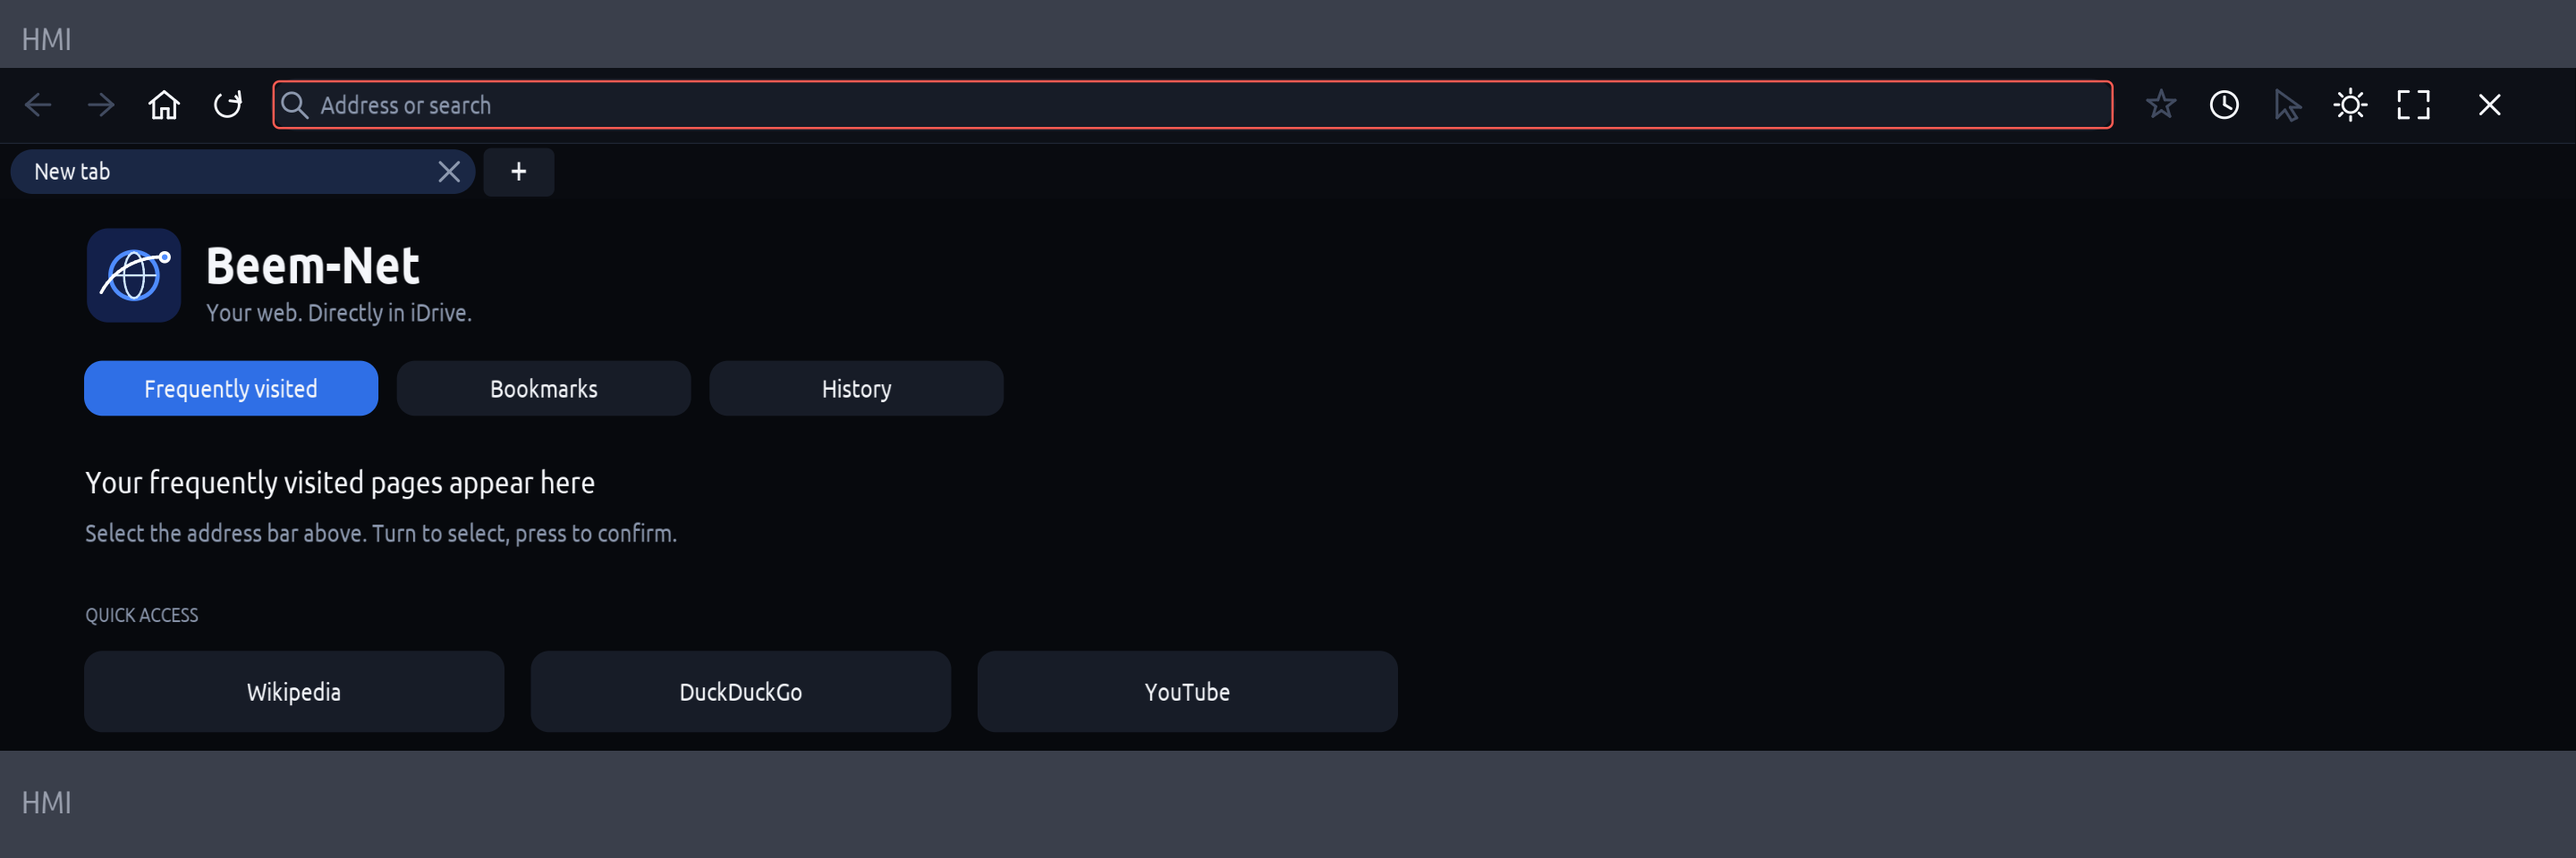
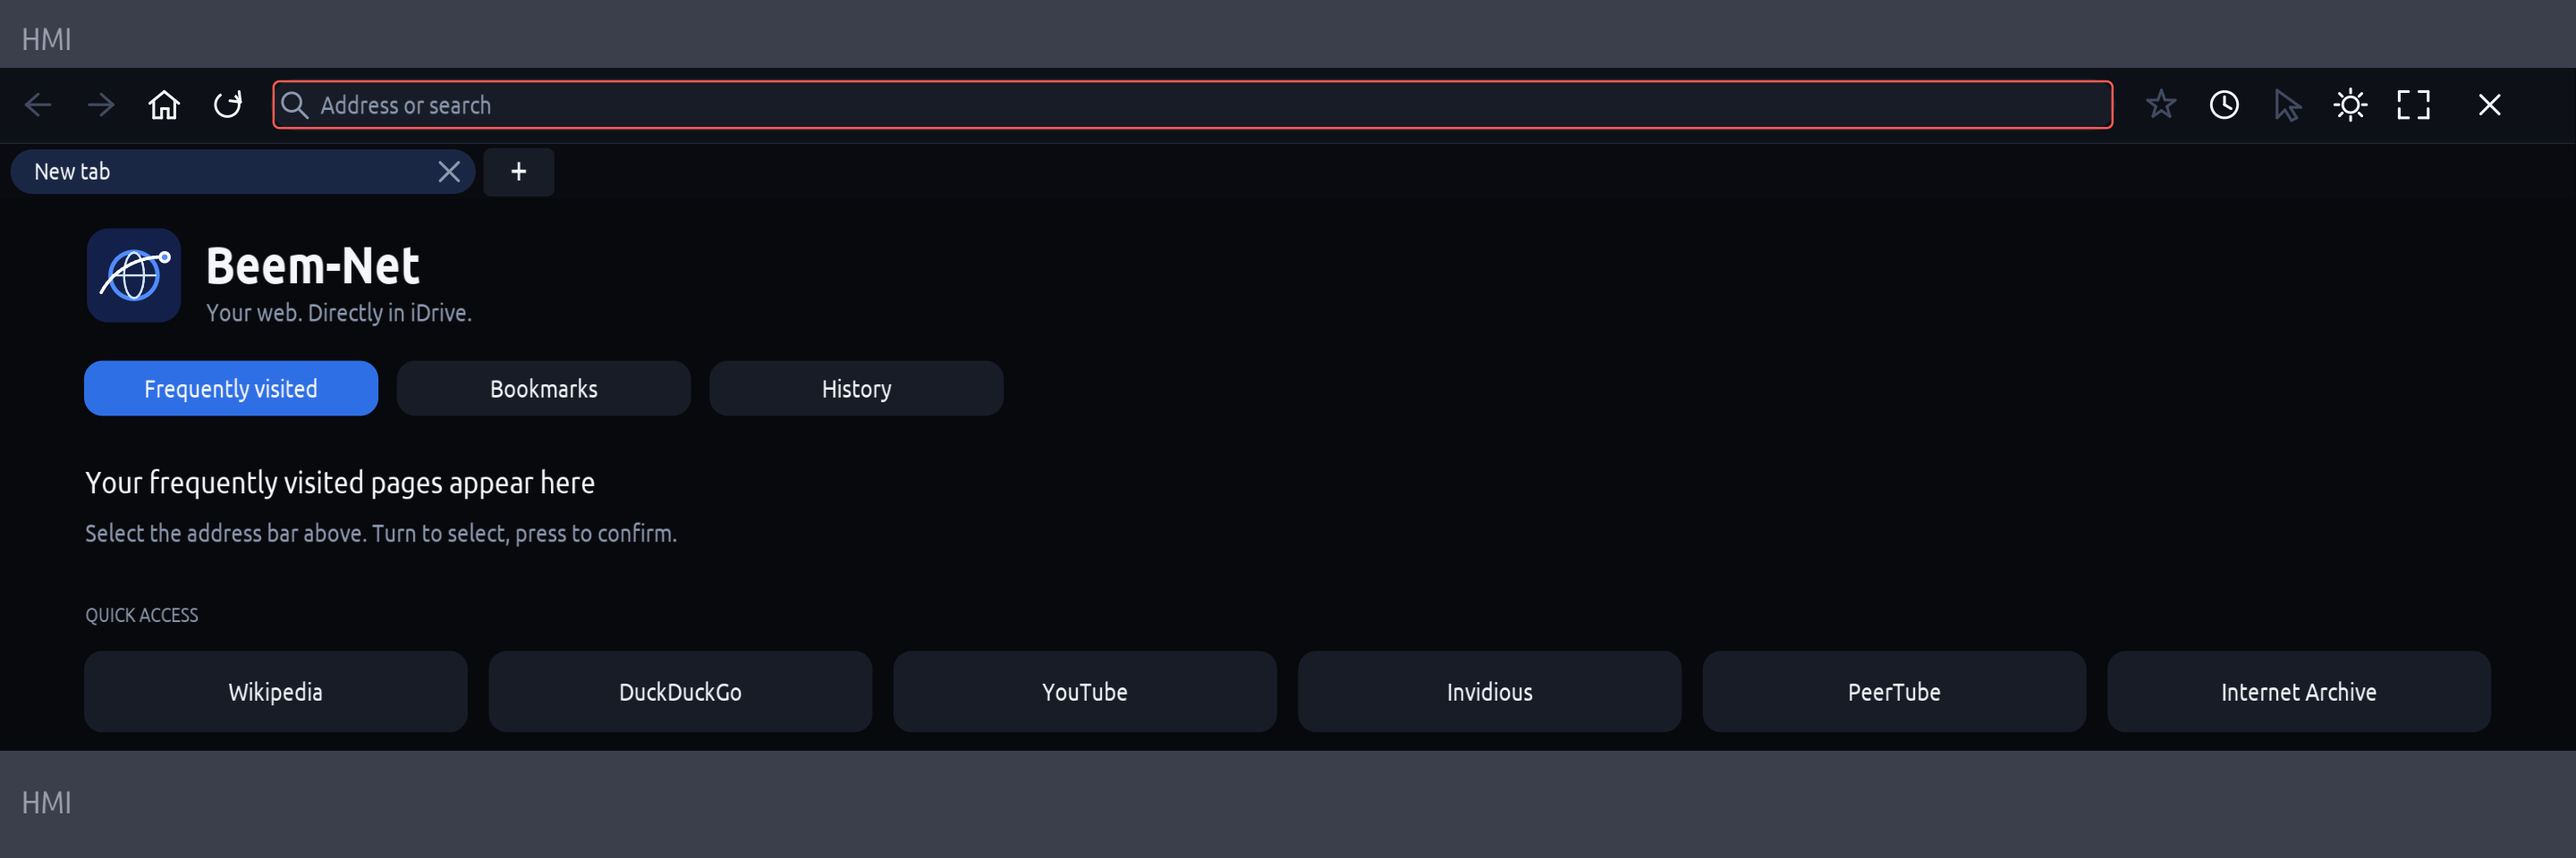
1.1.1: open video sites on the start page (Invidious, PeerTube, Internet Archive)
Claude-Session: https://claude.ai/code/session_016L48f5LhXsJGdS5vieFo9h

Changed region(s): [[0.25, 0.75, 0.9688, 0.875], [0.1562, 0.75, 0.2188, 0.875], [0.0938, 0.7812, 0.125, 0.8438]]

diff --git a/apps/mgu_browser/chromium_frontend.js b/apps/mgu_browser/chromium_frontend.js
@@ -498,7 +498,10 @@ mgu.run({async start(ctx){
             c.text('Waehle oben die Adressleiste. Drehen waehlt, Druecken bestaetigt.',65,319,19,C.muted);
             if(listTab==='frequent'){
                 c.text('SCHNELLZUGRIFF',65,380,15,C.muted);
-                [['Wikipedia','https://www.wikipedia.org/'],['DuckDuckGo','https://duckduckgo.com/'],['YouTube','https://www.youtube.com/']].forEach((i,n)=>button(c,64+n*340,402,320,62,i[0],()=>navigate(i[1]),'suggestion-'+n));
+                // (the open video sites are lighter pages than YouTube's own: Invidious is an open-source front end to
+                // YouTube - a public instance, they come and go; PeerTube and the Internet Archive are free video)
+                const quick=[['Wikipedia','https://www.wikipedia.org/'],['DuckDuckGo','https://duckduckgo.com/'],['YouTube','https://www.youtube.com/'],['Invidious','https://yt.chocolatemoo53.com/'],['PeerTube','https://sepiasearch.org/'],['Internet Archive','https://archive.org/details/movies']],qw=Math.floor((W-128-(quick.length-1)*16)/quick.length);
+                quick.forEach((i,n)=>button(c,64+n*(qw+16),402,qw,62,i[0],()=>navigate(i[1]),'suggestion-'+n));
             }
             return;
         }

diff --git a/tools/release.py b/tools/release.py
@@ -37,7 +37,7 @@ ENGINE = ('v0.10.0/mgu-browser-engine%400.1.0.tgz', '0b6a73c964354214262d01f2d9b
 # the package - the native helpers above all - stays upstream's.
 RUNTIME_OURS = {'runtime/': 'runtime/', 'backend/': 'src/'}
 # Beem-Net's own version line for the app and the runtime (upstream's are 0.x under the same ids)
-VERSION = '1.1.0'
+VERSION = '1.1.1'
 HMI = ['ID7', 'ID8']
 REQUIRES_APP = {'mgu-browser': VERSION, 'mgu-browser-engine': '0.1.0', 'mgu-uplink': '0.7.3', 'mgu-render': '0.6.11', 'mgu-deploy': '0.7.17'}
 

diff --git a/README.md b/README.md
@@ -6,7 +6,7 @@ An internet browser for **BMW iDrive 7 and iDrive 8**, installed from the
 [MGU Store](https://github.com/robertnisipeanu/mgu-store). A real Chromium runs on the head unit, out of sight; the
 app shows its picture and sends it your touches.
 
-> **Beta 3 (1.1.0), experimental.** Unofficial: not affiliated with or endorsed by BMW or Google. Use it parked.
+> **Beta 3 (1.1.1), experimental.** Unofficial: not affiliated with or endorsed by BMW or Google. Use it parked.
 
 | | |
 |---|---|
@@ -39,6 +39,9 @@ New in Beta 3:
 - **English everywhere** in the app when the car is not set to German. (The phone remote's web page is still
   German.)
 - A logo, a start page and a calmer dark design.
+- **Open video sites on the start page** (1.1.1): Invidious (an open-source front end to YouTube; the tile opens
+  one public instance - if it is down, pick another from <https://instances.invidious.io/> and bookmark it),
+  PeerTube (through Sepia Search) and the Internet Archive's films, next to Wikipedia, DuckDuckGo and YouTube.
 
 Still true: video is shown as pictures of the page, so it will not be as smooth as an app made for video
 ([BeeMTube2](https://github.com/waliworld/iDrive8-RideTube) is that app for YouTube on iDrive 8). Netflix, Disney+
@@ -63,7 +66,7 @@ If it does not open a page, a photo of what the screen says is what helps.
 - **The service** is upstream's published 0.16.1 package with its native parts byte for byte; the JavaScript files
   that differ from upstream's are the ones in this repository's [src/](src/) and [runtime/](runtime/) (the release
   tool lists them as it builds): the lighter video and picture, any zoom, the English texts, and how the app's uid is
-  found on a unit where MainApp keeps no `uids.txt`. It carries Beem-Net's own version, 1.1.0.
+  found on a unit where MainApp keeps no `uids.txt`. It carries Beem-Net's own version, 1.1.1.
 - **The engine** is upstream's published Chromium package, byte for byte.
 - Both carry `"mguHmi": ["ID7", "ID8"]`: upstream's say iDrive 7 only, which the installer refuses on iDrive 8.
 
